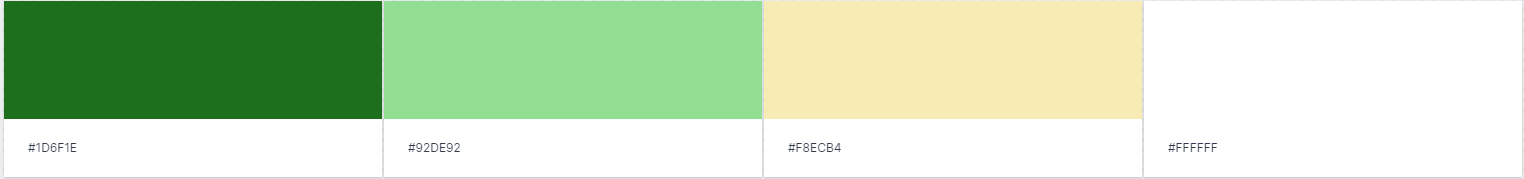
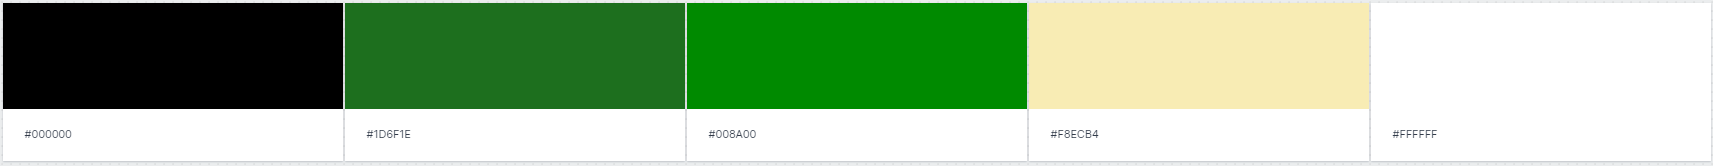
Update

diff --git a/P3/readme.md b/P3/readme.md
@@ -15,7 +15,9 @@ Hemos escogido estas imágenes porque nos transmiten tradición, calidez y nos t
 
 Lo que queremos transmitir nos ha condicionado mucho a la hora de escoger la paleta de colores.
 
-* Verde ( #1D6F1E y #92SSE92 ): transmite  naturaleza, tranquilidad, ecología.
+* Negro ( #000000 ): transmite elegancia y claridad.
+
+* Verde ( #1D6F1E y #008A00 ): transmite  naturaleza, tranquilidad, ecología.
 
 * Amarillo ( #F8ECB4 ): transmite  alegría, prosperidad, optimismo, luz.
 
@@ -24,6 +26,9 @@ Lo que queremos transmitir nos ha condicionado mucho a la hora de escoger la pal
 ![Paleta de colores](Images/Paleta.png)
 
 #### Test de contraste
+[Herramienta utilizada](https://github.com/dequelabs/color-palette)
+
+![Test de contraste](Images/PaletaTest.jpg)
 
 ### Tipografía
 
@@ -68,6 +73,18 @@ Lo que nos gustaría que los usuarios dijeran de nuestro proyecto:
 
 ## Guidelines
 
+Hemos utilizado las guías de diseño proporcionadas por Android, debido a que la mayoría de nuestros usuarios utilizarán esta plataforma.
+
+[Material Design](https://material.io/)
+
+Componentes:
+* [App bar: top](https://material.io/components/app-bars-top): muestra la información de la página actual y las principales acciones.
+* [Bottom navigation](https://material.io/components/bottom-navigation): permite al usuario moverse entre las direcciones de primer nivel de la app.
+* [Card](https://material.io/components/cards): se utiliza para mostrar contenido y acciones relacionadas con un tema concreto. Podemos añadir imágenes, texto y jerarquizar la información. Lo utilizaremos para mostrar el resumen de las actividades guardadas por el usuario.
+* [Lists](https://material.io/components/lists): se utilizan para agrupar elementos como texto, imágenes, cards, etc. Vamos a utilizarlo en la app para mostrar el listado de actividades destacadas. 
+* Formularios: para los formularios hemos utilizado algunos componentes proporcionados por la guía:
+    * [Checkboxes](https://material.io/components/date-pickers): las utilizamos cuando el usuario debe de seleccionar entre varias opciones. Si sólo hubiera una opción de tipo booleana, utilizaríamos [Switches](https://material.io/components/switches). En el formulario lo hemos utilizado para elegir el tipo de actividad a registrar.
+    * [Text fields](https://material.io/components/text-fields): permite al usuario introducir información y recibir feedback al instante de si es correcta o no.
 
 
 ## Mockup: LAYOUT HI-FI
